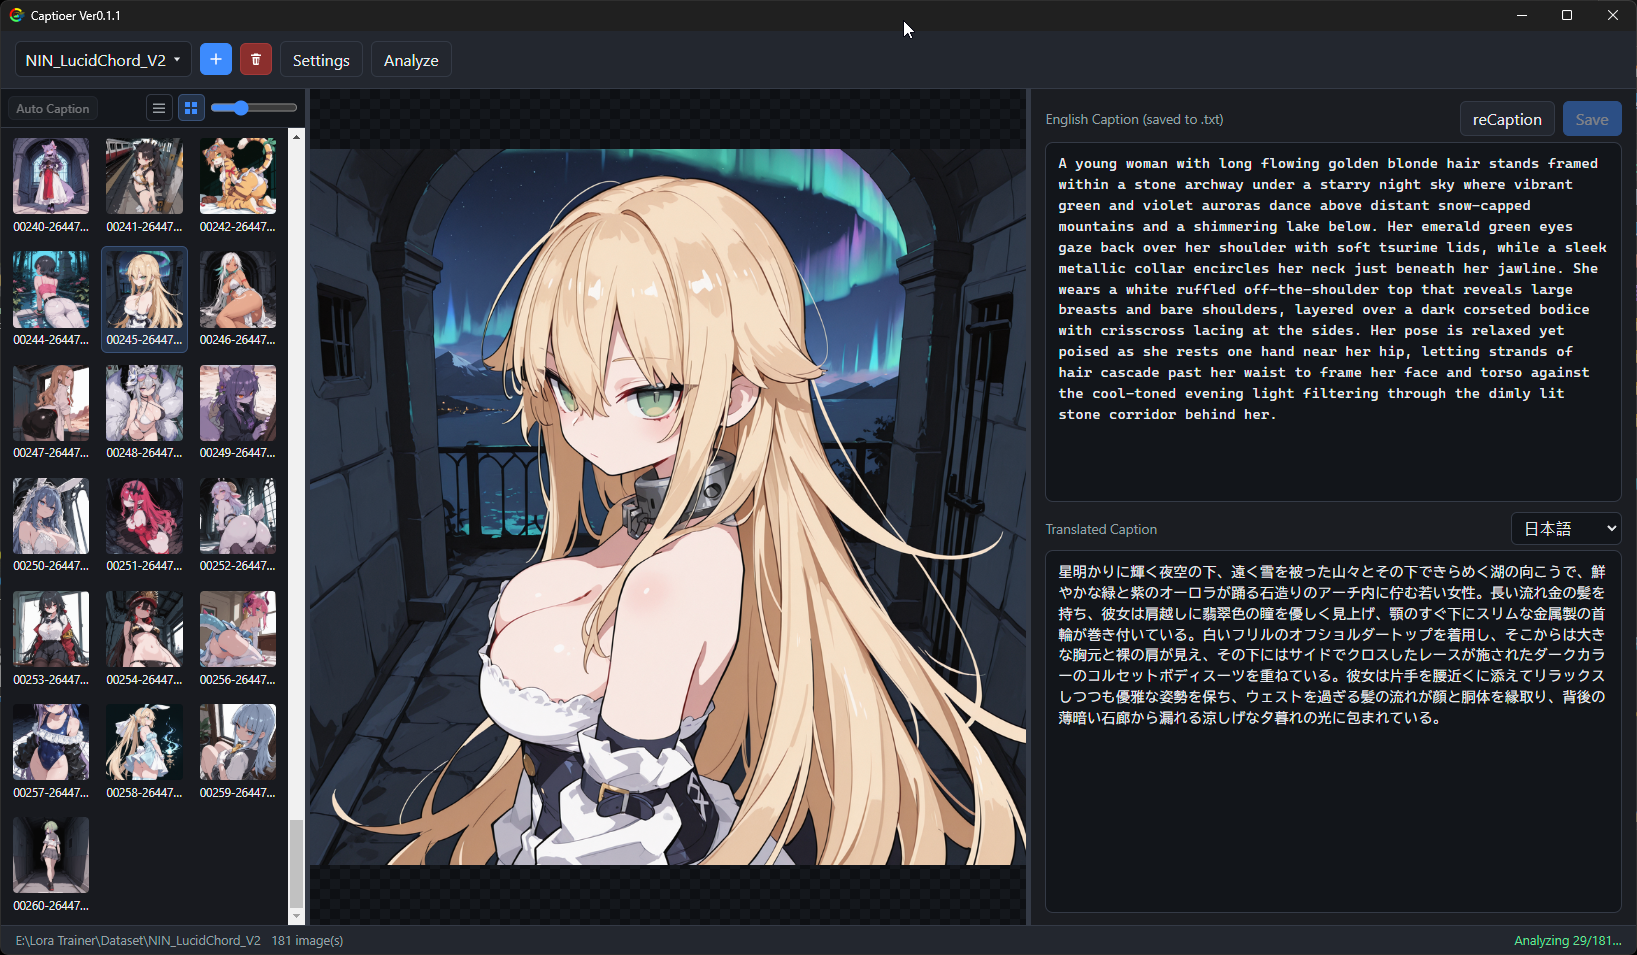
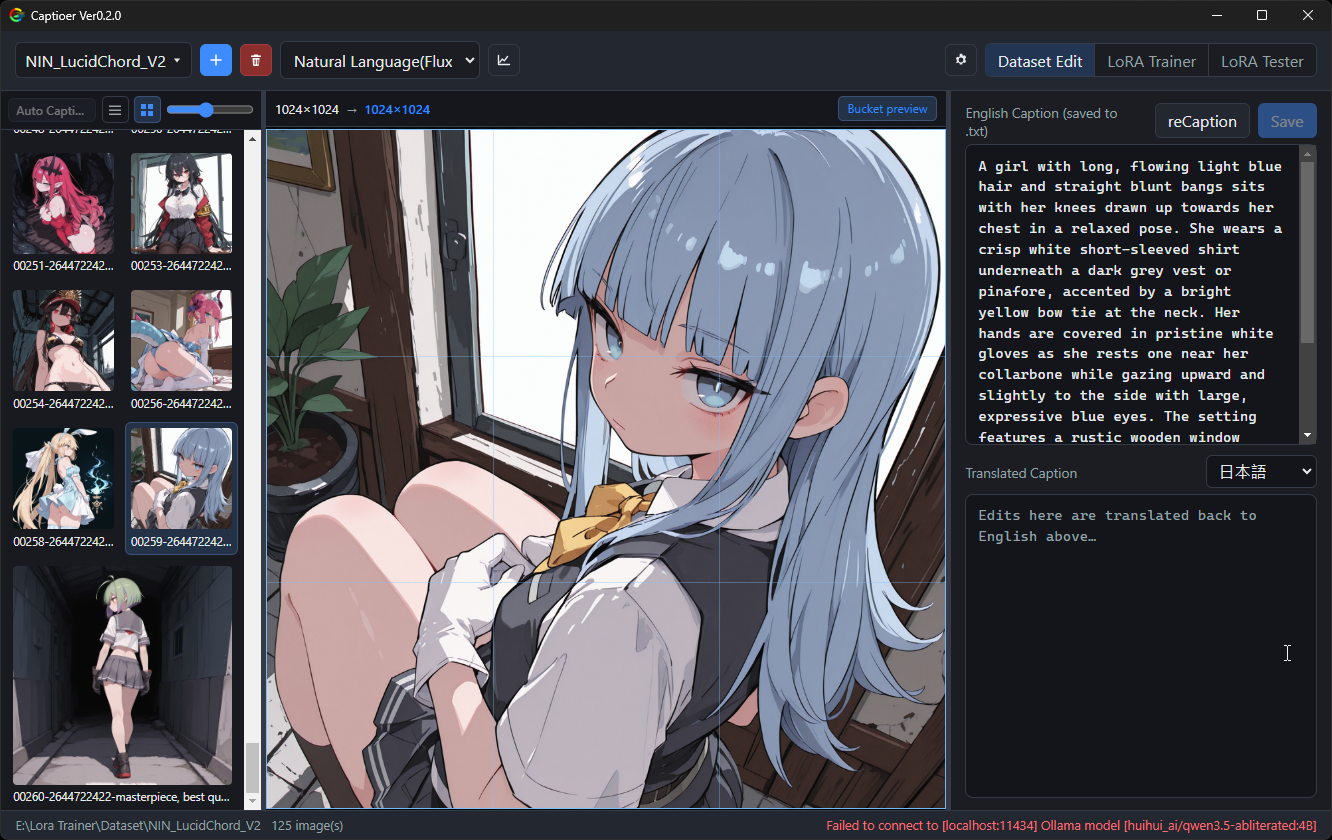
update readme

diff --git a/README.md b/README.md
@@ -1,33 +1,44 @@
 # Captioer
 
-**LoRA training image caption editor** — manage dataset folders, edit English captions, bidirectional translate with a local LLM (LM Studio / Ollama), batch Auto Caption, and analyze dataset health.
+**Caption → Train → Test** for LoRA workflows (v0.2.0). Manage datasets and English captions, train native **Krea 2** LoRAs, then verify results in **ComfyUI** — all in one Windows app.
+
+Three views: **Dataset Edit** · **Lora Train** · **Lora Test**.
 
 ## Screenshots
 
-### Full window
-
 <p align="center">
   <img src="docs/screenshots/01-main-window.png" alt="Captioer full window" width="900" />
-</p>
-
-### Caption Analysis Page
-
-<p align="center">
-  <img src="docs/screenshots/02-caption-analysis.png" alt="Caption Analysis" width="900" />
 </p>
 
 ---
 
 ## Features
 
+### Dataset Edit
+
 - **Dataset folders**: add multiple training folders, switch from the toolbar dropdown, or remove a folder from the list (disk files are kept unless you delete images)
 - **Image browser**: list or thumbnail view on the left, preview in the center, editor on the right; thumbnail size is adjustable
 - **English caption editing**: save as a sidecar `.txt` with the same name as the image (standard LoRA / caption workflow)
-- **Bidirectional translation**: English (top) ↔ target language (bottom, Traditional Chinese by default); edits on either side stay in sync
-- **Auto Caption / reCaption**: generate captions with a local vision/LLM (Natural Language / Flux/Krea2) or Danbooru Tags via WD14 ONNX (SD/XL); switch format from the Dataset Edit toolbar
-- **Caption Analysis**: caption coverage, LoRA Health Score, and per-category detail distributions (pie charts)
-- **Lora Train**: native **Krea 2** LoRA trainer (train on Raw, use on Turbo) with Start/Stop, progress log, and config export
+- **Bidirectional translation**: English (top) ↔ target language (bottom, Traditional Chinese by default); edits on either side stay in sync via LM Studio / Ollama
+- **Auto Caption / reCaption**: Natural Language (Flux/Krea2 vision/LLM) or Danbooru Tags via WD14 ONNX (SD/XL); switch format from the Dataset Edit toolbar
+- **Caption Analysis**: caption coverage, LoRA Health Score, and per-category detail distributions
+- **AR bucket preview**: scan aspect-ratio buckets aligned with training bucket settings
 - **Resizable layout**: drag splitters to resize panes; window position is remembered
+
+### Lora Train
+
+- Native **Krea 2** LoRA trainer (train on Raw, apply on Turbo)
+- Multiple training jobs, Start/Stop, progress log, loss chart, sample previews, and config export
+- **Loss spike** markers and **OOM detection** (memory pressure / CUDA OOM surfaced in UI and log)
+- **Resource monitor**: CPU / RAM / GPU usage; optionally kill processes holding VRAM
+- Low VRAM options: layer offload, quantization, gradient checkpointing
+- Hugging Face model check / **Download** / **Update**; Python path probe and one-click install of trainer deps
+- LoRA weight export compatible with ComfyUI key format
+
+### Lora Test
+
+- Install / start / stop **ComfyUI** from the app
+- Generate with trained checkpoints, multi-prompt runs, and a result gallery
 
 ---
 
@@ -40,8 +51,9 @@
 | AI backend (optional) | [LM Studio](https://lmstudio.ai/) or [Ollama](https://ollama.com/), reachable on localhost |
 | WD14 tagging (optional) | Python + packages in `trainer/requirements-wd14.txt` (`onnxruntime`, etc.); model downloads on first use |
 | Krea 2 training (optional) | CUDA Python + packages in `trainer/requirements.txt`; recent `diffusers` with `Krea2Pipeline` |
+| ComfyUI (optional) | Install from **Lora Test** in-app, or point at an existing ComfyUI install |
 
-You can still edit and save captions without an AI backend. Natural Auto Caption, translation, and Analyze need a running vision/LLM service; WD14 Auto Caption needs the ONNX deps above.
+You can still edit and save captions without an AI backend. Natural Auto Caption, translation, and Analyze need a running vision/LLM service; WD14 Auto Caption needs the ONNX deps above. Training and Lora Test need their respective Python / ComfyUI setups.
 
 ---
 
@@ -60,7 +72,7 @@ npm run dev
 npm run dist
 ```
 
-Output: portable exe under `release/` (artifact name follows `productName` in `package.json`).
+Output: portable exe under `release/` (artifact name follows `productName` in `package.json`, e.g. `Captioer-0.2.0-portable.exe`).
 
 ---
 
@@ -163,12 +175,13 @@ Use this to check dataset diversity and whether captions are skewed.
 
 ## Suggested workflow
 
-1. **Add Dataset Folder** with your training images  
-2. **Settings** → connect LM Studio / Ollama → pick model and caption preset  
-3. **Auto Caption** to fill missing `.txt` files  
-4. Review / refine via the translation pane, then save English  
-5. **Analyze** for Health Score and category balance; **reCaption** or edit by hand as needed  
-6. Switch to **LoraTrain** → set dataset folder, Train base = Raw, Sample = Turbo → **Settings** (Python path) → **Start Train**
+1. **Add Dataset Folder** with your training images
+2. **Settings** → connect LM Studio / Ollama → pick model and caption preset
+3. **Auto Caption** to fill missing `.txt` files
+4. Review / refine via the translation pane, then save English
+5. **Analyze** for Health Score and category balance; **reCaption** or edit by hand as needed
+6. Switch to **Lora Train** → set dataset folder, Train base = Raw, Sample = Turbo → **Settings** (Python path) → **Start Train**
+7. Switch to **Lora Test** → start ComfyUI → pick a checkpoint → generate and review the gallery
 
 ---
 
@@ -186,13 +199,29 @@ Captioer ships a native trainer under `trainer/` (also packaged into `resources/
    ```bash
    pip install "git+https://github.com/huggingface/diffusers.git"
    ```
-2. In the app: **LoraTrain** → **Settings** → set **Python executable** (auto-probes packages; use **Download** if missing)
+2. In the app: **Lora Train** → **Settings** → set **Python executable** (auto-probes packages; use **Download** if missing)
 3. Optionally set **Model download path** (default: app `userData/models`). On entering LoRA Train, Captioer checks Raw / Turbo and prompts **Download** or **Update**.
 4. Set **Train base** to `krea/Krea-2-Raw` (or a local path), **Sample / apply on** to `krea/Krea-2-Turbo`
 5. Point **folder_path** at your captioned dataset, then **Start Train**
 6. Weights write under `{training_folder}/{name}/`
 
-VRAM: Krea 2 is large; use a high-VRAM NVIDIA GPU, `bf16`, and gradient checkpointing (defaults).
+VRAM: Krea 2 is large; use a high-VRAM NVIDIA GPU, `bf16`, and gradient checkpointing (defaults). Enable Low VRAM / layer offload when needed.
+
+**Runtime signals:** CUDA OOM and severe memory pressure stop the run and show in the log/UI. Unusual **loss spikes** are marked on the loss chart so you can stop early or adjust hyperparameters.
+
+---
+
+## Lora Test (ComfyUI)
+
+Use **Lora Test** to verify checkpoints without leaving the app.
+
+1. Open **Lora Test** → install ComfyUI if needed (or use an existing install path)
+2. **Start** ComfyUI and wait until the status shows ready
+3. Select a trained LoRA / DiT checkpoint from your training output
+4. Enter one or more prompts and run generation
+5. Review results in the gallery; keep or filter outputs as needed
+
+Stop ComfyUI from the same view when you are done to free VRAM.
 
 ---
 
